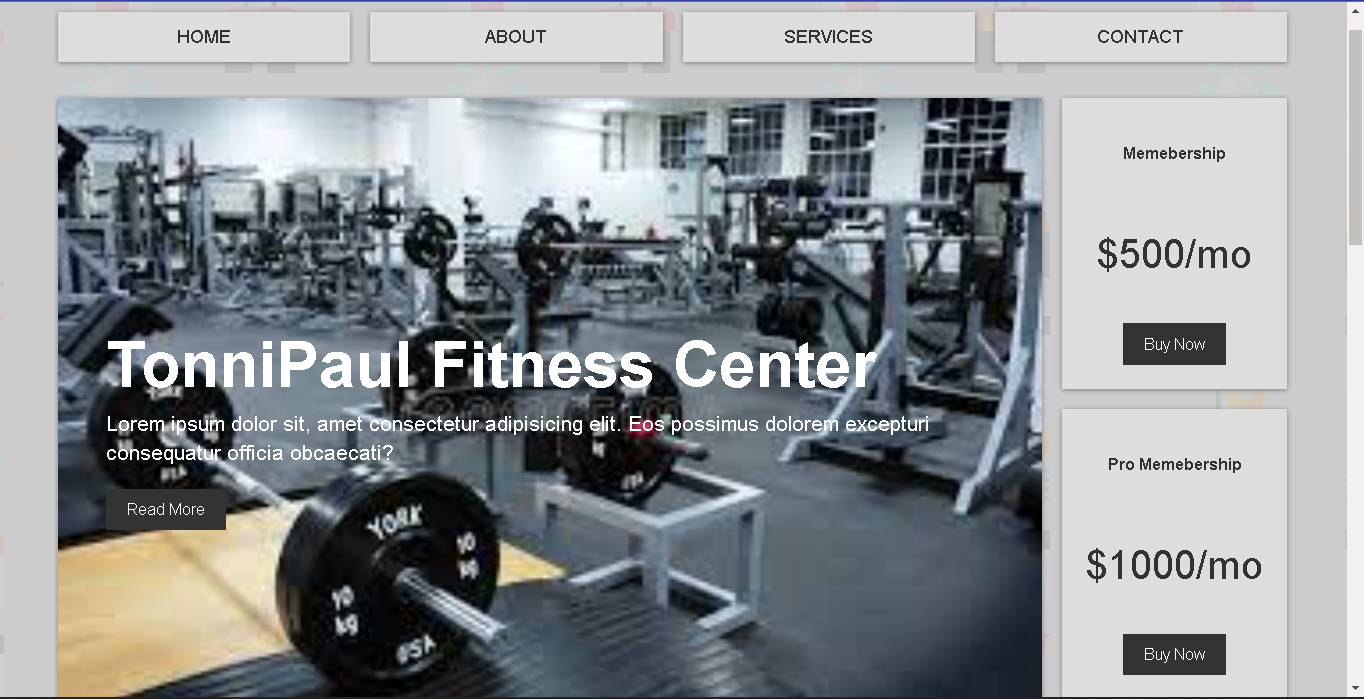
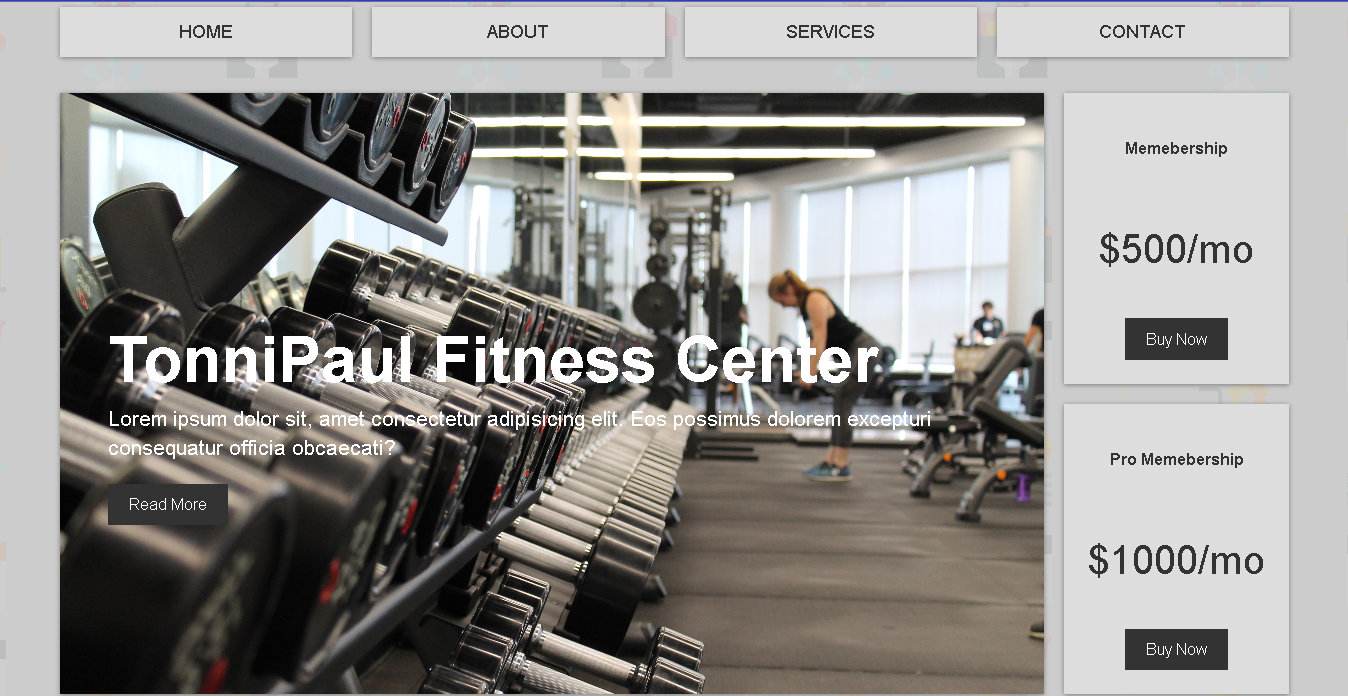
Layout edits

diff --git a/src/components/projectObject.js b/src/components/projectObject.js
@@ -1,18 +1,18 @@
 export const projectData =[
    {
-      id: 1,
-      image: './images/fitnesssite.png',
-      description: 'A fitness website website template.',
-      liveSite: 'https://tonnipaul.github.io/My-gridisite/',
-      stacks: 'HTML, CSS',
-      github: 'https://github.com/TonniPaul/My-gridisite'
-   },
-   {
       id: 2,
       image: './images/memelarge.png',
       description:'A web Application that generates random Meme Images and allows you to input your own Header and Footer caption ',
       stacks:'HTML, CSS, JAVASCRIPT and REACT',
       liveSite: 'https://tonnimeme.vercel.app',
       github: 'https://github.com/TonniPaul/meme'
+   },
+   {
+      id: 1,
+      image: './images/fitnesssite.png',
+      description: 'A fitness website website template.',
+      liveSite: 'https://tonnipaul.github.io/My-gridisite/',
+      stacks: 'HTML, CSS, Images(Unsplash)',
+      github: 'https://github.com/TonniPaul/My-gridisite'
    }
 ]

diff --git a/src/components/Hero.js b/src/components/Hero.js
@@ -11,7 +11,7 @@ function Hero()
                <ImagePaul/>
                <div className='hero--text'>
                   <p className='name--text'>Paul Oluwatoni Ariyo-Adeoye</p>
-                  <small className='name--text--small'>Front-end Developer</small>
+                  <small className='name--text--small'>Frontend Developer</small>
                </div>
                <div className='hero-button'>
                   <p><NavLink to='/contact'className='action--btn'> Hire Me</NavLink></p>

diff --git a/src/index.css b/src/index.css
@@ -206,7 +206,7 @@ small{
   } 
   .switch{
     top: -50px;
-    left: 83%;
+    left: 84%;
   }
   .App{
     width: 100%;
@@ -263,9 +263,12 @@ small{
 	0% {
 		transform: translatex(0px);
 	}
-	50% {
+	25% {
 		transform: translatex(-40px);
 	}
+  75%{
+    transform: translateX(80px );
+  }
 	100% {
 		transform: translatex(0px);
 	}

diff --git a/src/components/hero.css b/src/components/hero.css
@@ -124,7 +124,7 @@
 }
 @media (max-width:900px){
    .hero-body{
-      height: 90vh;
+      height: 85vh;
       display: flex;
       flex-direction: column;
       justify-content: center;
